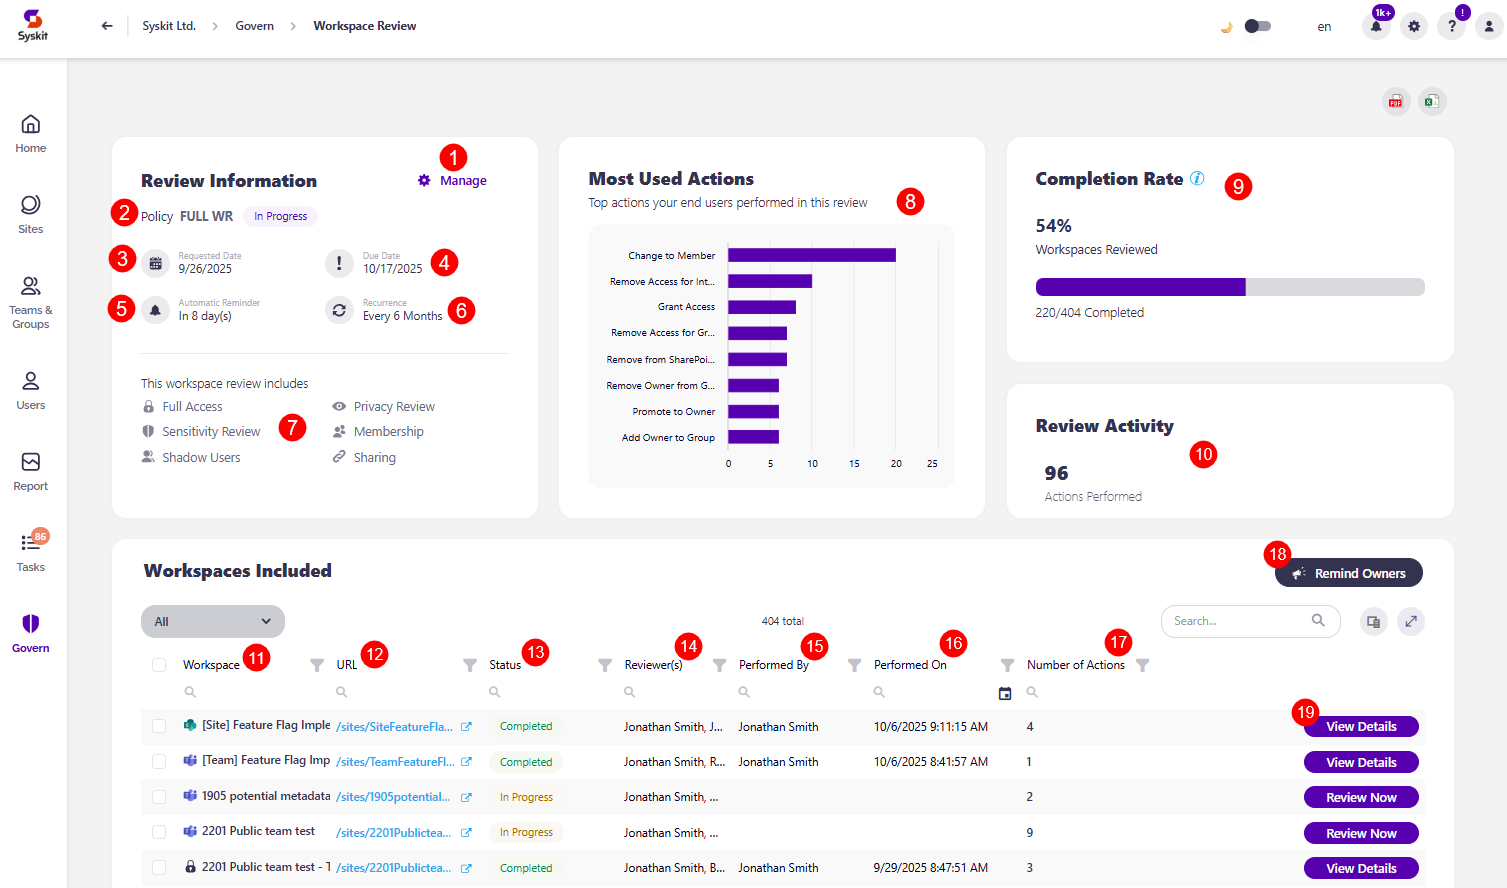
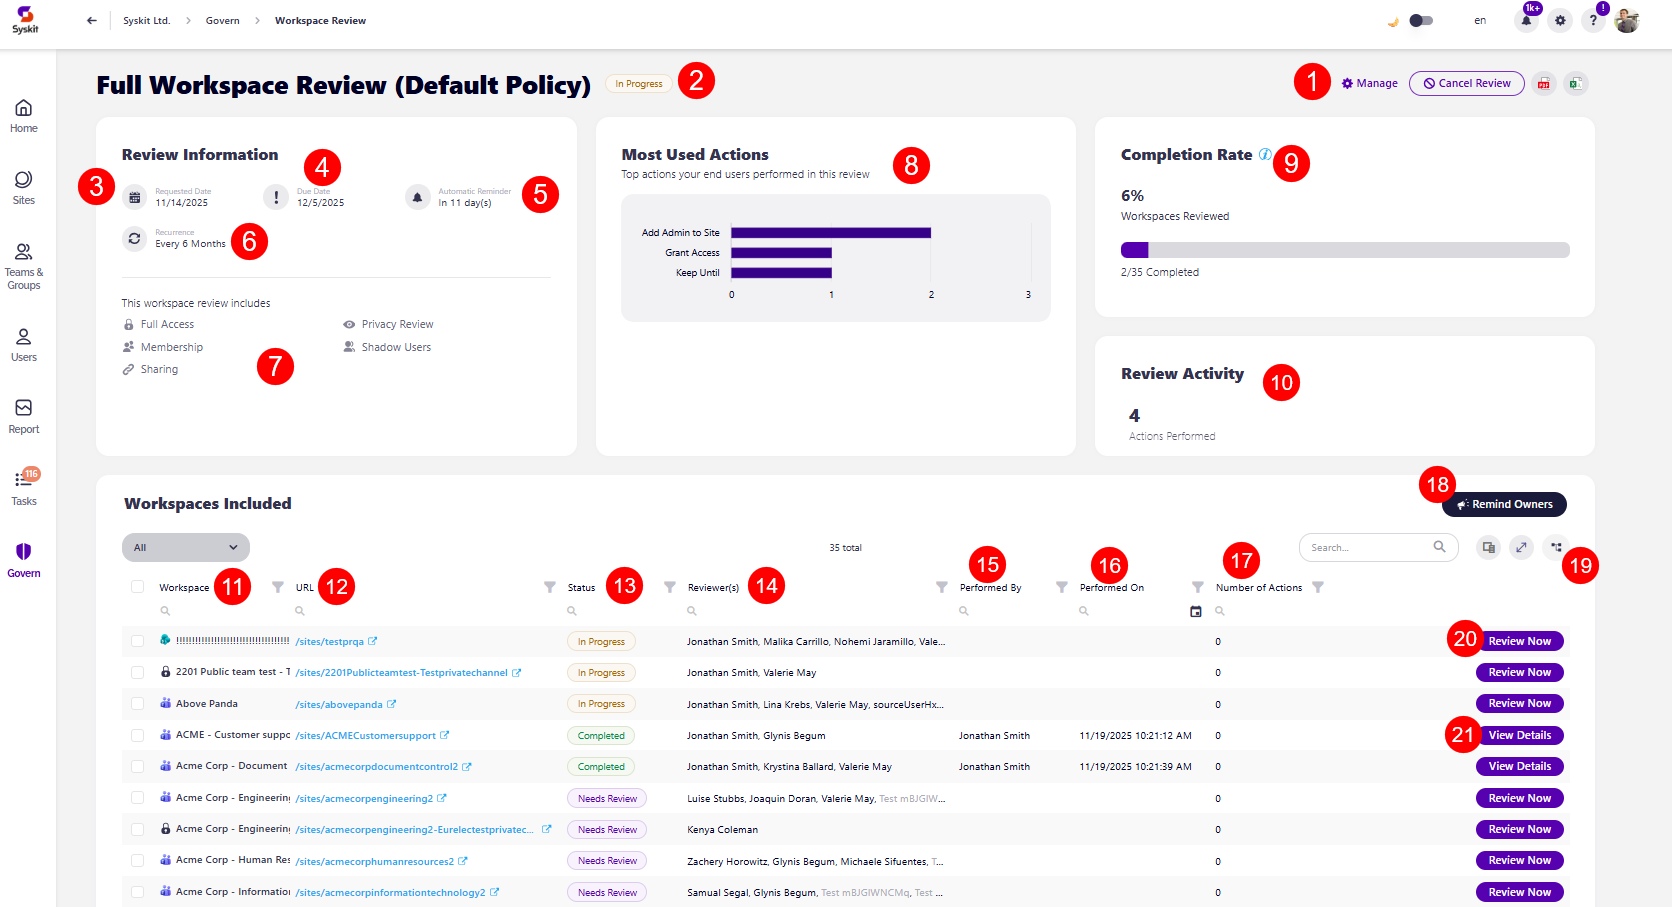
WR Govern screen update

diff --git a/docs/governance-and-automation/workspace-review/monitor-workspace-review.md b/docs/governance-and-automation/workspace-review/monitor-workspace-review.md
@@ -112,7 +112,9 @@ After clicking the **View Details button**, the Workspace Review details screen 
   * **Performed on (16)** - shows the date when the review was performed
   * **Number of Actions (17)** - the number of actions taken on the workspace as part of the workspace review
   * **Remind Owners action (18)** - in the top right corner, clicking this sends an email reminder to reviewers for the workspaces where the Workspace Review was not yet completed
-  * **Review Now action (19)** - lets you complete the review on that workspace by yourself 
+  * **Show Reviewers per Workspace (19)** - this changes how you view the Workspaces Included report; clicking this shows a list of all workspaces included in the workspace review and the reviewers for that workspace
+  * **Review Now action (20)** - lets you complete the review on that workspace by yourself 
+  * **View Details (21)** - if the workspace was already reviewed, clicking this will redirect you to the Actions Performed screen
 
 ![Governance - Workspace Review - Overview - View Details](../../../static/img/monitor-workspace-review-governance-overview-view-details.png)
 
